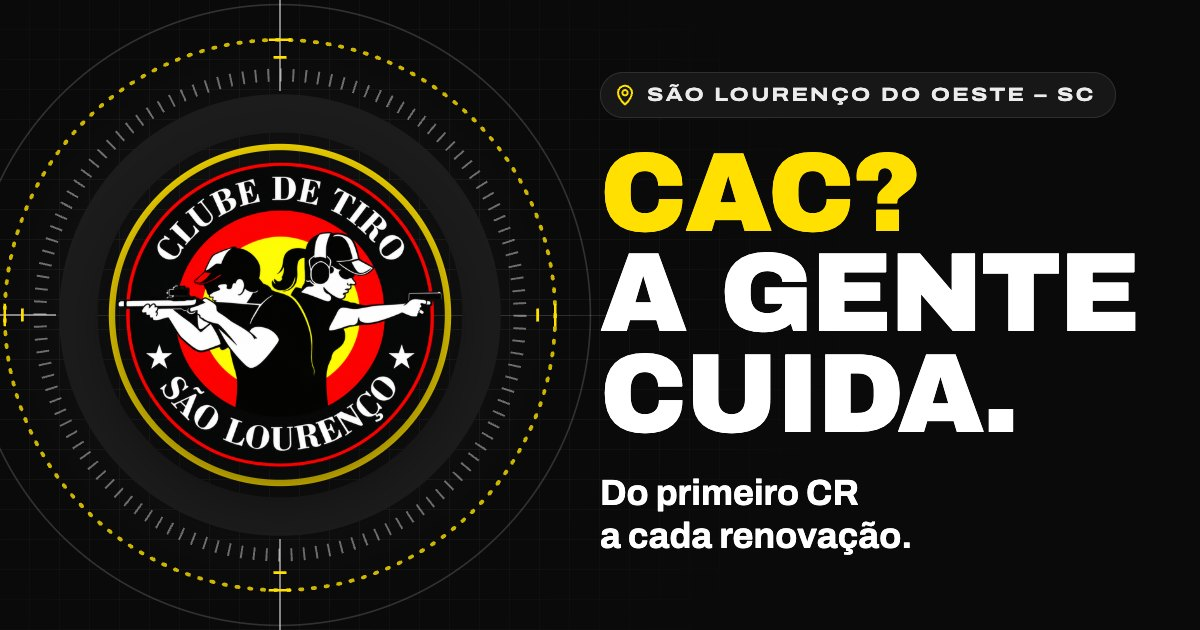
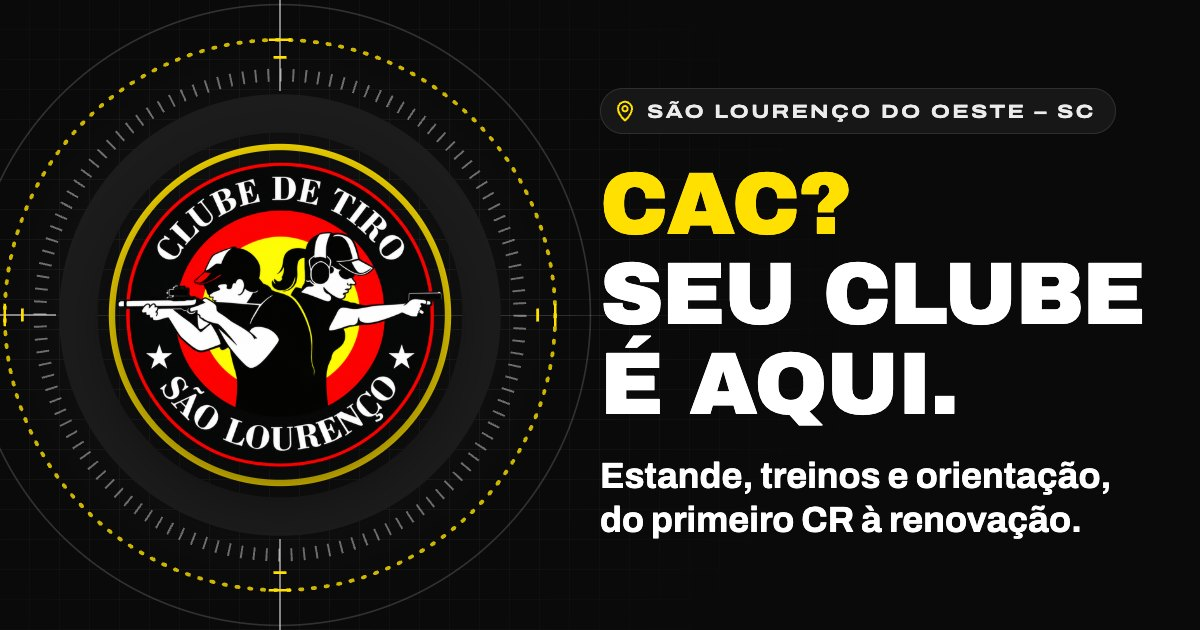
chore: og.jpg e alt com a headline escolhida (CAC? Seu clube é aqui.)

Changed region(s): [[0.4933, 0.2413, 0.9558, 0.6937], [0.4933, 0.7238, 0.925, 0.8746], [0.4933, 0.1206, 0.925, 0.2111]]

diff --git a/index.html b/index.html
@@ -17,7 +17,7 @@
 <meta property="og:image" content="https://euwill-maker.github.io/clube-tiro-slo/assets/img/og.jpg">
 <meta property="og:image:width" content="1200">
 <meta property="og:image:height" content="630">
-<meta property="og:image:alt" content="Logo do Clube de Tiro São Lourenço no centro de um alvo e o texto: CAC? A gente cuida. Do primeiro CR a cada renovação. São Lourenço do Oeste – SC.">
+<meta property="og:image:alt" content="Logo do Clube de Tiro São Lourenço no centro de um alvo e o texto: CAC? Seu clube é aqui. Estande, treinos e orientação, do primeiro CR à renovação. São Lourenço do Oeste – SC.">
 <meta property="og:type" content="website">
 <meta property="og:locale" content="pt_BR">
 <meta name="twitter:card" content="summary_large_image">
